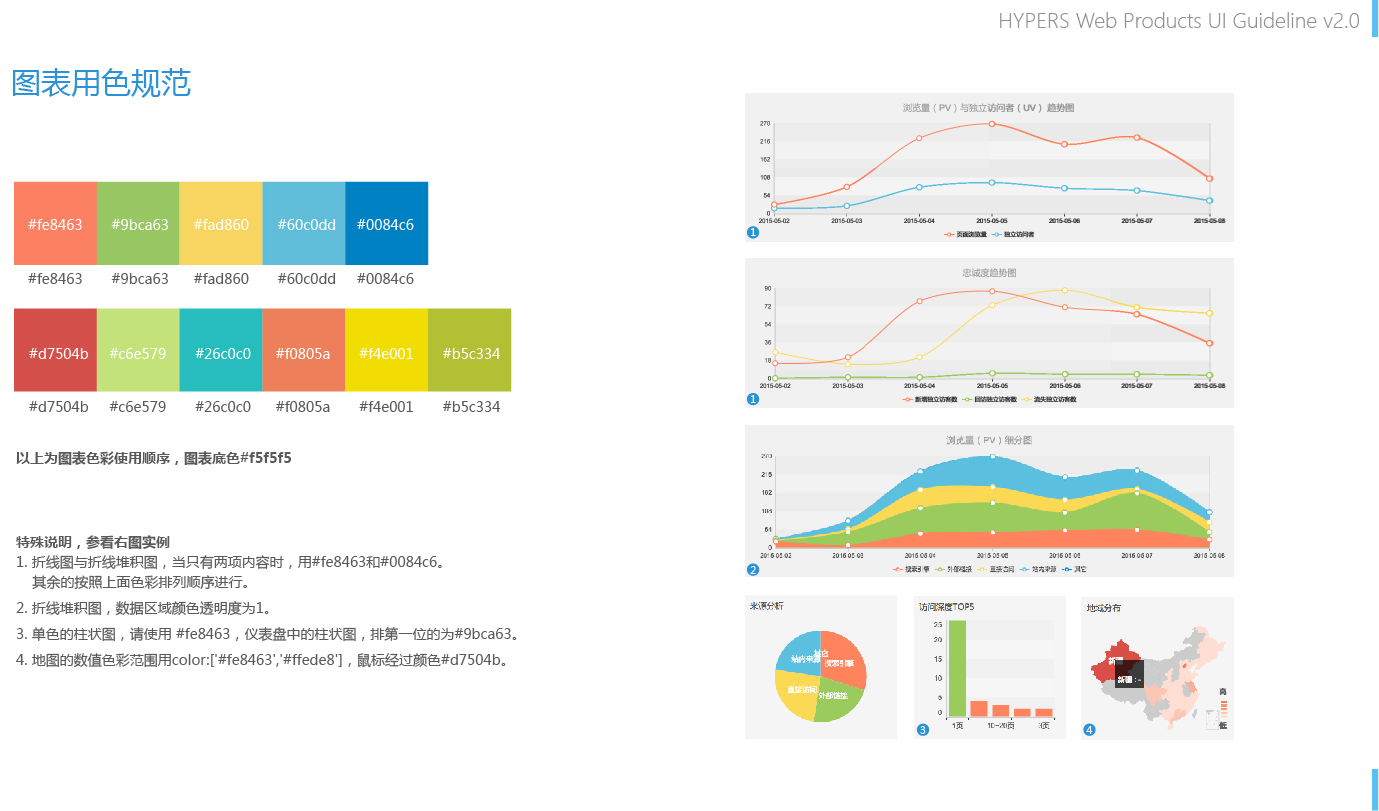
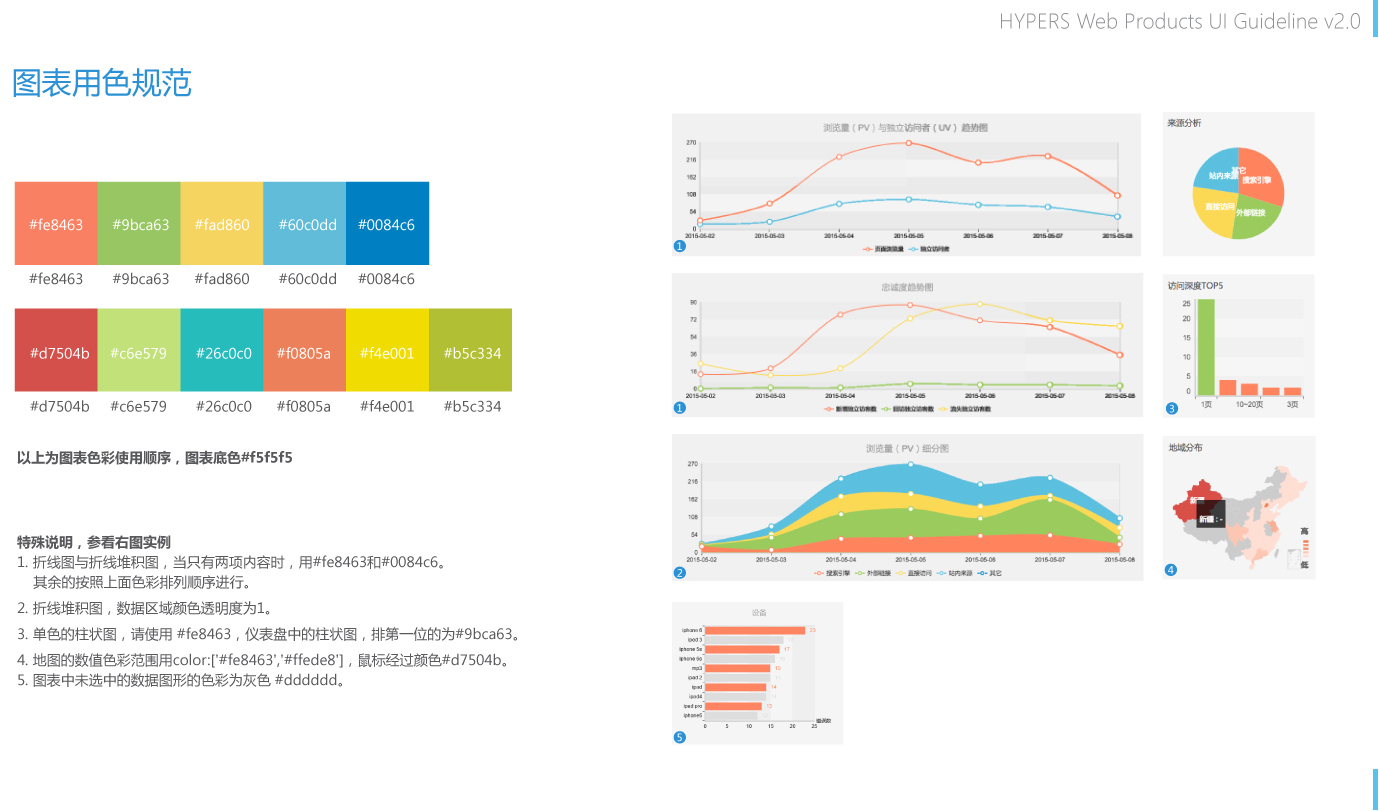
Update index

diff --git a/docs/ui-guide/charts/README.md b/docs/ui-guide/charts/README.md
@@ -4,11 +4,12 @@
 
 #####以上为图表色彩使用顺序，图表底色#f5f5f5
 #####特殊说明，参看下图实例
-1. 折线图与折线堆积图，当只有两项内容时，用#fe8463和#0084c6。
+1. 折线图与折线堆积图，当只有两项内容时，用#fe8463和#0084c6。<br>
     其余的按照上面色彩排列顺序进行。
 2. 折线堆积图，数据区域颜色透明度为1。
 3. 单色的柱状图，请使用 #fe8463，仪表盘中的柱状图，排第一位的为#9bca63。
 4. 地图的数值色彩范围用color:['#fe8463','#ffede8']，鼠标经过颜色#d7504b。
+5. 图表中未选中的数据图形的色彩为灰色 #dddddd。
 
 ![Alt text](../image/UI-Standar-LUXURY-25-2.jpg)
 

diff --git a/docs/ui-guide/README.md b/docs/ui-guide/README.md
@@ -1,6 +1,6 @@
 # 概述
 
-
+![mark logo](./image/UI-Standar-LOGO.jpg)
 
 #### 设计概述
 
@@ -24,6 +24,8 @@
 #####[What's New / 更新]
 2015-11
 * 调整整个文档的排版
+* 新增邮件页面样式
+* 图表用色规范更新（增加了未选中数据的色彩）
 
 2015-10
 * 调整了Table的单元格边距
